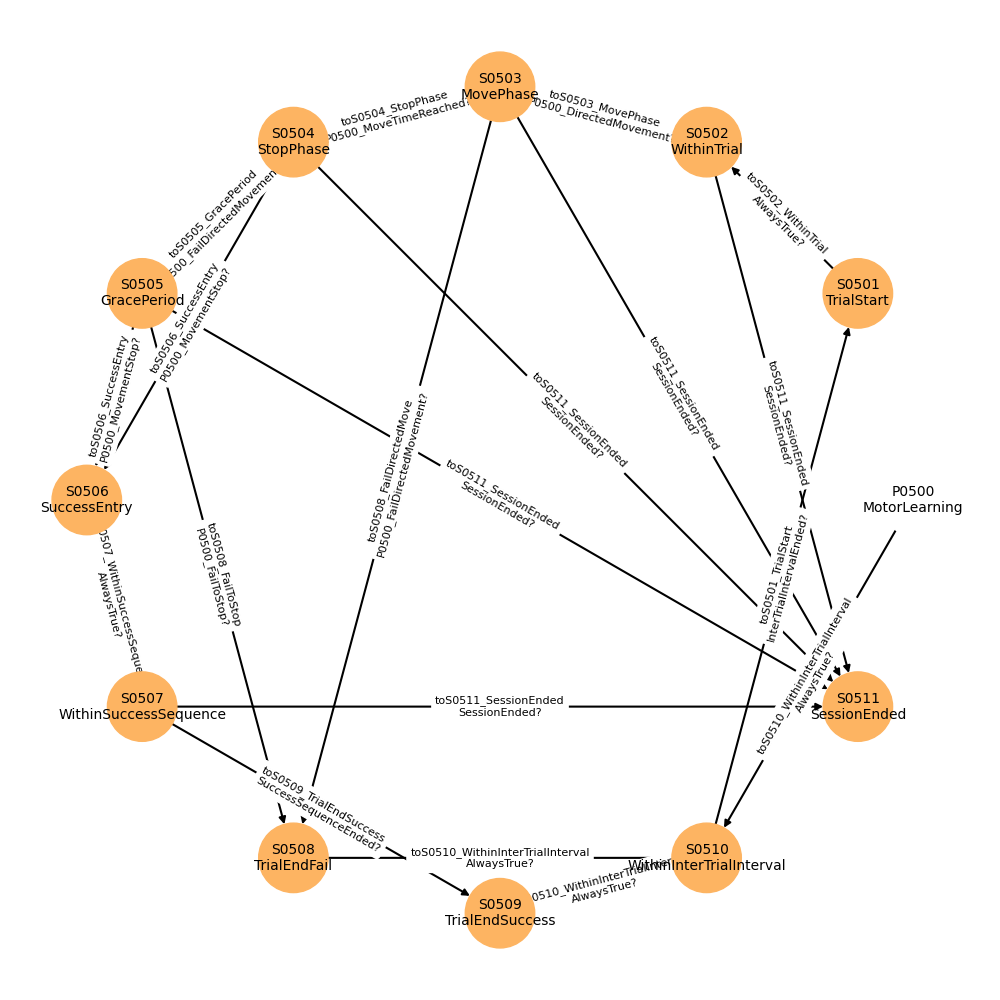
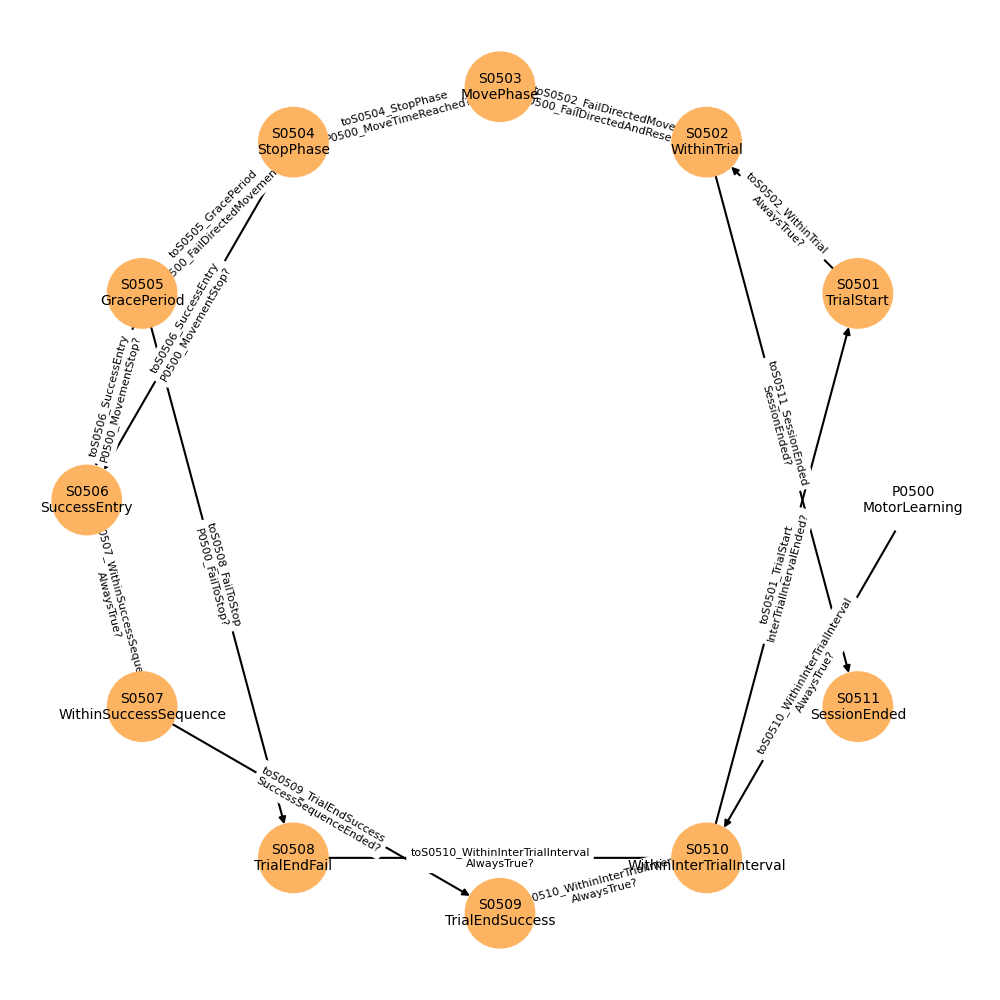
500 fixed

diff --git a/Assets/scripts/FSMAssets/paradigmFSMAssets/P0500_MotorLearning/paradigmDecisions/FailDirectedAndReset.cs b/Assets/scripts/FSMAssets/paradigmFSMAssets/P0500_MotorLearning/paradigmDecisions/FailDirectedAndReset.cs
@@ -24,9 +24,9 @@ namespace Experiment.ExperimentFSM
             int checkYaw = int.Parse(stateMachine._sessionManager.trialVariablesDict["Y"]);
             int checkPitch = int.Parse(stateMachine._sessionManager.trialVariablesDict["P"]);
 
-            rawMovementSum = CalculateQueueSum(trialStartMotorLearning.rawMovementQueue);
-            yawMovementSum = CalculateQueueSum(trialStartMotorLearning.yawMovementQueue);
-            pitchMovementSum = CalculateQueueSum(trialStartMotorLearning.pitchMovementQueue);
+            rawMovementSum = Mathf.Abs(CalculateQueueSum(trialStartMotorLearning.rawMovementQueue));
+            yawMovementSum = Mathf.Abs(CalculateQueueSum(trialStartMotorLearning.yawMovementQueue));
+            pitchMovementSum = Mathf.Abs(CalculateQueueSum(trialStartMotorLearning.pitchMovementQueue));
 
             float movementSum = rawMovementSum + yawMovementSum + pitchMovementSum;
 
@@ -39,12 +39,12 @@ namespace Experiment.ExperimentFSM
             }
             else
             {
-                trialStartMotorLearning.rawMovementQueue.Clear();
-                trialStartMotorLearning.yawMovementQueue.Clear();
-                trialStartMotorLearning.pitchMovementQueue.Clear();
-                trialStartMotorLearning.rawMovementQueue.Enqueue(0);
-                trialStartMotorLearning.yawMovementQueue.Enqueue(0);
-                trialStartMotorLearning.pitchMovementQueue.Enqueue(0);
+                // trialStartMotorLearning.rawMovementQueue.Clear();
+                // trialStartMotorLearning.yawMovementQueue.Clear();
+                // trialStartMotorLearning.pitchMovementQueue.Clear();
+                // trialStartMotorLearning.rawMovementQueue.Enqueue(0);
+                // trialStartMotorLearning.yawMovementQueue.Enqueue(0);
+                // trialStartMotorLearning.pitchMovementQueue.Enqueue(0);
                 moveTimeReached.timer = 0;
                 return true;
             }

diff --git a/Assets/scripts/FSMAssets/paradigmFSMAssets/P0500_MotorLearning/paradigmDecisions/DirectedMovement.cs b/Assets/scripts/FSMAssets/paradigmFSMAssets/P0500_MotorLearning/paradigmDecisions/DirectedMovement.cs
@@ -25,23 +25,12 @@ namespace Experiment.ExperimentFSM
             int checkYaw = int.Parse(stateMachine._sessionManager.trialVariablesDict["Y"]);
             int checkPitch = int.Parse(stateMachine._sessionManager.trialVariablesDict["P"]);
 
-            if (checkRaw == 1)
-                rawMovementSum = CalculateQueueSum(trialStartMotorLearning.rawMovementQueue);
-            else
-                rawMovementSum = 0;
-            
-            if (checkYaw == 1)
-                yawMovementSum = CalculateQueueSum(trialStartMotorLearning.yawMovementQueue);
-            else
-                yawMovementSum = 0;
-            
-            if (checkPitch == 1)
-                pitchMovementSum = CalculateQueueSum(trialStartMotorLearning.pitchMovementQueue);
-            else
-                pitchMovementSum = 0;
+            rawMovementSum = Mathf.Abs(CalculateQueueSum(trialStartMotorLearning.rawMovementQueue));
+            yawMovementSum = Mathf.Abs(CalculateQueueSum(trialStartMotorLearning.yawMovementQueue));
+            pitchMovementSum = Mathf.Abs(CalculateQueueSum(trialStartMotorLearning.pitchMovementQueue));
 
             float movementSum = rawMovementSum + yawMovementSum + pitchMovementSum;
-            Debug.Log($"rawMovementSum: {rawMovementSum/movementSum}, yawMovementSum: {yawMovementSum/movementSum}, pitchMovementSum: {pitchMovementSum/movementSum}");
+            Debug.Log($"rawMovementSum: {rawMovementSum}, yawMovementSum: {yawMovementSum}, pitchMovementSum: {pitchMovementSum}");
 
 
             if ((checkRaw == 1 && rawMovementSum/movementSum > moveThreshold) || 

diff --git a/Assets/scripts/FSMAssets/paradigmFSMAssets/P0500_MotorLearning/paradigmDecisions/EarlyStop.cs b/Assets/scripts/FSMAssets/paradigmFSMAssets/P0500_MotorLearning/paradigmDecisions/EarlyStop.cs
@@ -17,8 +17,7 @@ namespace Experiment.ExperimentFSM
         public override bool Decide(BaseStateMachine stateMachine)
         {
             float moveThreshold = float.Parse(stateMachine._sessionManager.trialVariablesDict["STH"]);
-            float movementSum = movementInQueue.rawMovementTemp + movementInQueue.yawMovementTemp + movementInQueue.pitchMovementTemp;
-
+            float movementSum = Mathf.Abs(movementInQueue.rawMovementTemp) + Mathf.Abs(movementInQueue.yawMovementTemp) + Mathf.Abs(movementInQueue.pitchMovementTemp);
             if (movementSum > moveThreshold)
             {
                 return false;

diff --git a/Assets/scripts/FSMAssets/paradigmFSMAssets/P0500_MotorLearning/paradigmDecisions/MovementStop.cs b/Assets/scripts/FSMAssets/paradigmFSMAssets/P0500_MotorLearning/paradigmDecisions/MovementStop.cs
@@ -15,7 +15,7 @@ namespace Experiment.ExperimentFSM
         public override bool Decide(BaseStateMachine stateMachine)
         {
             float moveThreshold = float.Parse(stateMachine._sessionManager.trialVariablesDict["STH"]);
-            float movementSum = movementInQueue.rawMovementTemp + movementInQueue.yawMovementTemp + movementInQueue.pitchMovementTemp;
+            float movementSum = Mathf.Abs(movementInQueue.rawMovementTemp) + Mathf.Abs(movementInQueue.yawMovementTemp) + Mathf.Abs(movementInQueue.pitchMovementTemp);
 
             if (movementSum > moveThreshold)
             {

diff --git a/Assets/scripts/FSMAssets/paradigmFSMAssets/P0500_MotorLearning/paradigmDecisions/FailToStop.cs b/Assets/scripts/FSMAssets/paradigmFSMAssets/P0500_MotorLearning/paradigmDecisions/FailToStop.cs
@@ -26,7 +26,7 @@ namespace Experiment.ExperimentFSM
             
             if (timer > stopTime) {
                 float moveThreshold = float.Parse(stateMachine._sessionManager.trialVariablesDict["STH"]);
-                float movementSum = movementInQueue.rawMovementTemp + movementInQueue.yawMovementTemp + movementInQueue.pitchMovementTemp;
+                float movementSum = Mathf.Abs(movementInQueue.rawMovementTemp) + Mathf.Abs(movementInQueue.yawMovementTemp) + Mathf.Abs(movementInQueue.pitchMovementTemp);
 
                 if (movementSum > moveThreshold)
                 {

diff --git a/Assets/scripts/FSMAssets/paradigmFSMAssets/P0500_MotorLearning/paradigmActions/MovementInQueue.cs b/Assets/scripts/FSMAssets/paradigmFSMAssets/P0500_MotorLearning/paradigmActions/MovementInQueue.cs
@@ -20,7 +20,7 @@ namespace Experiment.ExperimentFSM
         public override void Execute(BaseStateMachine stateMachine)
         {
             float moveTime = float.Parse(stateMachine._sessionManager.trialVariablesDict["MT"]);
-            if (trialStartMotorLearning.rawMovementQueue.Count > moveTime * 90)
+            if (trialStartMotorLearning.rawMovementQueue.Count > moveTime * 60)
             {
                 trialStartMotorLearning.rawMovementQueue.Dequeue();
                 trialStartMotorLearning.yawMovementQueue.Dequeue();

diff --git a/Assets/scripts/FSMAssets/paradigmFSMAssets/P0500_MotorLearning/paradigmDecisions/TimeReached.cs b/Assets/scripts/FSMAssets/paradigmFSMAssets/P0500_MotorLearning/paradigmDecisions/TimeReached.cs
@@ -16,7 +16,7 @@ namespace Experiment.ExperimentFSM
         [SerializeField] private string timeVariableName;
         public override bool Decide(BaseStateMachine stateMachine)
         {
-            int movementTime = int.Parse(stateMachine._sessionManager.trialVariablesDict[timeVariableName]);
+            float movementTime = float.Parse(stateMachine._sessionManager.trialVariablesDict[timeVariableName]);
 
             if (currentTrialID != stateMachine._sessionManager._currentTrialID)
             {
